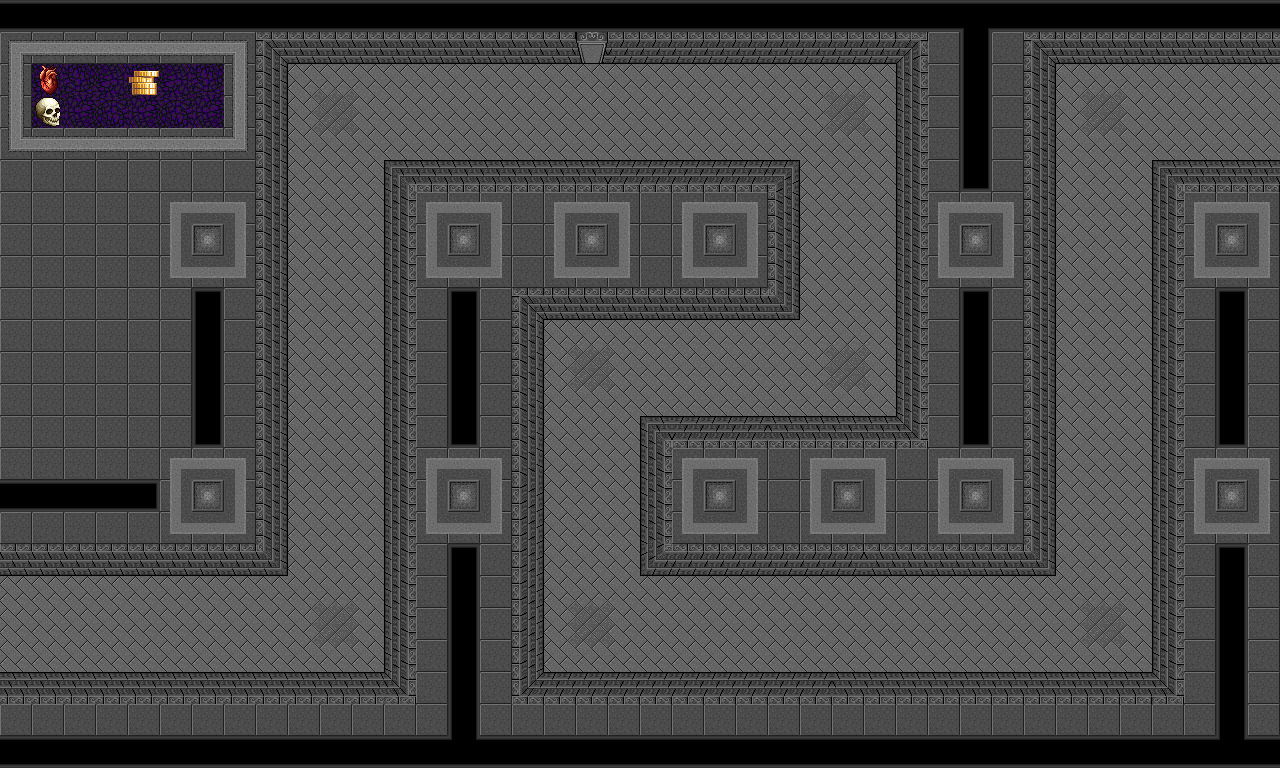
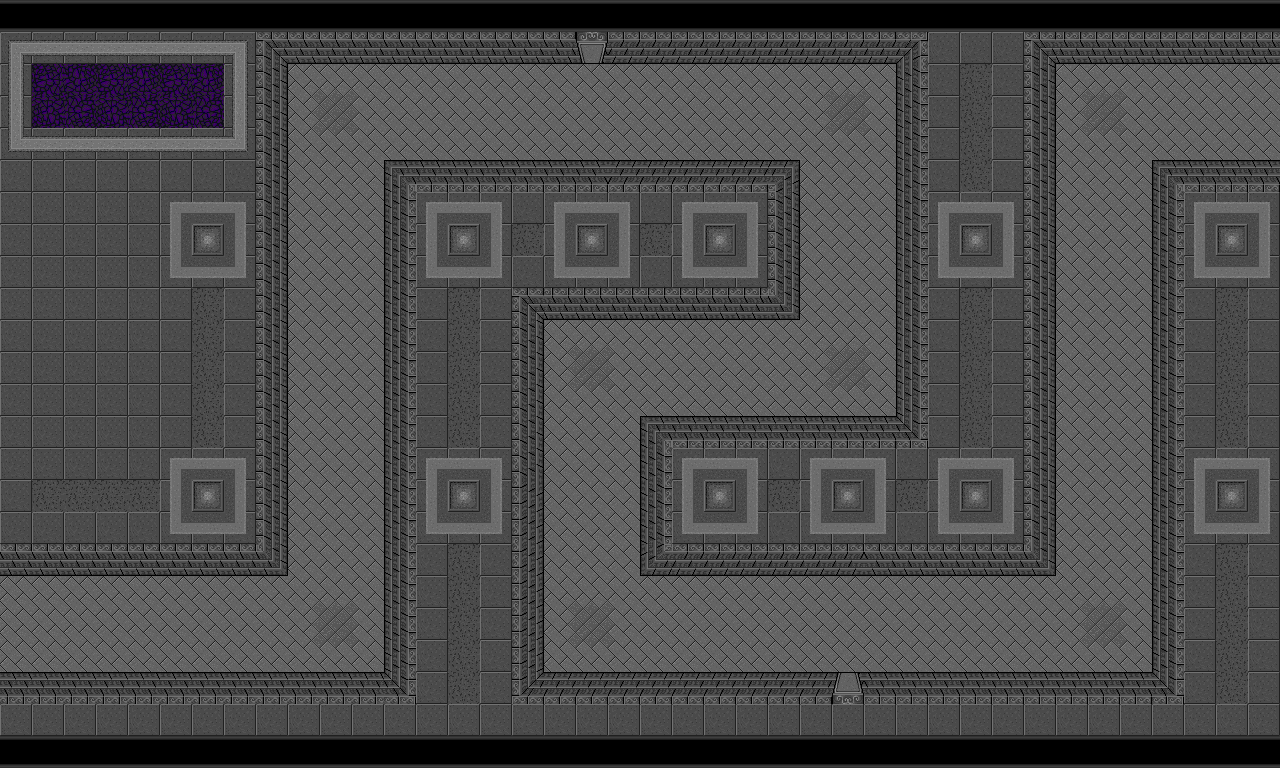
wave cycle fixed

diff --git a/index.js b/index.js
@@ -14,18 +14,28 @@ const mouse = {
     y: undefined
 }
 
-const image = new Image();
-image.onload = () => { 
+const mapIMG = new Image();
+const coinsIMG = new Image();
+const heartIMG = new Image();
+const wavesIMG = new Image();
+
+mapIMG.onload = () => { 
     animate();
 };
-image.src = 'img/LEVEL1.png';
 
-function drawText(text, x, y, textSize, align){
+mapIMG.src = 'img/LEVEL1.png';
+coinsIMG.src = 'img/coins.png';
+heartIMG.src = 'img/heart.png';
+wavesIMG.src = 'img/skull.png';
+
+function drawText(src, text, x, y, textSize, align){
+    if(src != "")
+        ctx.drawImage(src, x - 32, y - 20);
     ctx.fillStyle = 'white';
     ctx.font = 'bold ' + textSize + 'px Arial';
     ctx.textAlign = align;
     ctx.textBaseline = 'middle';
-    ctx.fillText(text, x, y);
+    ctx.fillText(text, x + 5, y - 3);
 }
 
 const placementTilesData2D = [];
@@ -54,9 +64,9 @@ const explosions = [];
 const buildings = [];
 
 let counter = 0;
-let enemyCount = 20;
+let enemyCount = 50;
 let enemyExtras = 3;
-let hearts = 10;
+let hearts = 100;
 let coins = 100;
 let waves = 1;
 let activeTile = undefined;
@@ -79,10 +89,10 @@ spawnEnemies(enemyCount);
 
 function animate(){
     const animationID = requestAnimationFrame(animate);
-    ctx.drawImage(image, 0, 0);
-    drawText(hearts, 67, 85, 20,'left');
-    drawText(coins, 165, 85, 20,'left');
-    drawText(waves, 67, 112, 20,'left');
+    ctx.drawImage(mapIMG, 0, 0);
+    drawText(heartIMG, hearts, 65, 85, 20,'left');
+    drawText(wavesIMG, waves, 160, 85, 20,'left');
+    drawText(coinsIMG, coins, 65, 115, 20,'left');
     
     if (animationID % Math.round(Math.random() * 500) == 0 && counter < enemies.length){
         const enemyIndex = enemies.findIndex((enemy) => {
@@ -92,7 +102,6 @@ function animate(){
         counter++;        
     }
     enemies.sort((a, b) => b.position.y - a.position.y);
-    console.log(enemies.length);
 
     for (let i = enemies.length - 1; i >= 0; i--){
         const enemy = enemies[i];
@@ -101,11 +110,12 @@ function animate(){
         
         if (enemy.position.x > canvas.width){
             hearts -= 1;
-            enemies.splice(i, 1);
-            
+            enemy.position.x = enemy.waypoints[0].x;
+            enemy.position.y = enemy.waypoints[0].y;
+            enemy.waypointIndex = 0;
             if(hearts === 0){
                 cancelAnimationFrame(animationID);
-                drawText("GAME OVER", canvas.width / 2, canvas.height / 2, 30, 'center');
+                drawText("","GAME OVER", canvas.width / 2, canvas.height / 2, 30, 'center');
             }
         }
     }
@@ -121,7 +131,6 @@ function animate(){
         const explosion = explosions[i];
         explosion.draw(ctx);
         explosion.update(ctx);
-    
         if (explosion.frames.current >= explosion.frames.max - 1) {
             explosions.splice(i, 1);
         }
@@ -146,7 +155,6 @@ function animate(){
             const projectile = building.projectiles[i];
 
             projectile.update(ctx);
-
             const xDifference = projectile.enemy.center.x - projectile.position.x;
             const yDifference = projectile.enemy.center.y - projectile.position.y;
             const distance = Math.hypot(xDifference, yDifference);
@@ -181,11 +189,11 @@ canvas.addEventListener('click', (event) => {
     if (activeTile && !activeTile.isOccupied && coins - 25 >= 0) {
         coins -= 25
         buildings.push(
-        new Building({
-            position: {
-                x: activeTile.position.x,
-                y: activeTile.position.y
-            }
+            new Building({
+                position: {
+                    x: activeTile.position.x,
+                    y: activeTile.position.y
+                }
         })
         )
         activeTile.isOccupied = true
@@ -215,14 +223,24 @@ window.addEventListener('mousemove', (event) => {
 })
 
 /* 
+FIX NEXT WAVE AFTER ENEMIES KILLED
+FIX TOWER ATTACK PRIORITY
+ADD ID TO EACH ENEMY
+
+Ruby		Splash damage
 Emerald  	Poison, damage, reduce armour
 Amethyst  	Air Attack only
+Sapphire	Freeze / slow group 
+Topaz 		rapid fire
+Diamond		Heavy damage / stun / critical hit 
 Gold 		money generation, weak damage
-Saphire		Freeze / slow
-Diamond		Heavy damage
-Ruby		Splash damage
+Silver		Sniper range
 Opal		Tower boost auras
-Uranium		Enemy Damage, weakness auras
+Uranium		Enemy Damage, weakness auras / remove armour and abilities
+Obsidian	rail gun laser
+chain lighting, spreadshot
+fire pit, landmines, net traps /air units to the ground
+
 */
 
 

diff --git a/classes/Enemy.js b/classes/Enemy.js
@@ -37,10 +37,14 @@ export default class Enemy extends Sprite {
         ctx.fillStyle = 'green';
         ctx.fillRect(this.position.x, this.position.y - 15, this.radius * this.health / 100, 5);
         
+        ctx.beginPath();
+        ctx.ellipse(this.center.x, this.center.y + 12, 8, 15, Math.PI / 2, 0, 2 * Math.PI);
+        ctx.fillStyle = 'rgba(0, 0, 0, 0.2)';
+        ctx.fill();
     }
     update(ctx){
         super.update(ctx);
-        
+        this.draw(ctx)
         const waypoint = this.waypoints[this.waypointIndex];
         const yDistance = waypoint.y - this.center.y;
         const xDistance = waypoint.x - this.center.x;
@@ -69,31 +73,5 @@ export default class Enemy extends Sprite {
             this.image.src = 'img/02Knight.png';    
         else
             this.image.src = 'img/01Knight.png';
-
-        const cropWidth = this.image.width / this.frames.max;
-        const crop = {
-            position: { 
-                x: cropWidth * this.frames.current, 
-                y: 0 
-            },
-            width: cropWidth,
-            height: this.image.height
-        }
-        ctx.beginPath();
-        ctx.ellipse(this.center.x, this.center.y + 12, 8, 15, Math.PI / 2, 0, 2 * Math.PI);
-        ctx.fillStyle = 'rgba(0, 0, 0, 0.2)';
-        ctx.fill();
-
-        ctx.drawImage(
-            this.image, 
-            crop.position.x, 
-            crop.position.y, 
-            crop.width, 
-            crop.height,
-            this.position.x + this.offset.x, 
-            this.position.y + this.offset.y,
-            crop.width,
-            crop.height
-        );
     }
 }
